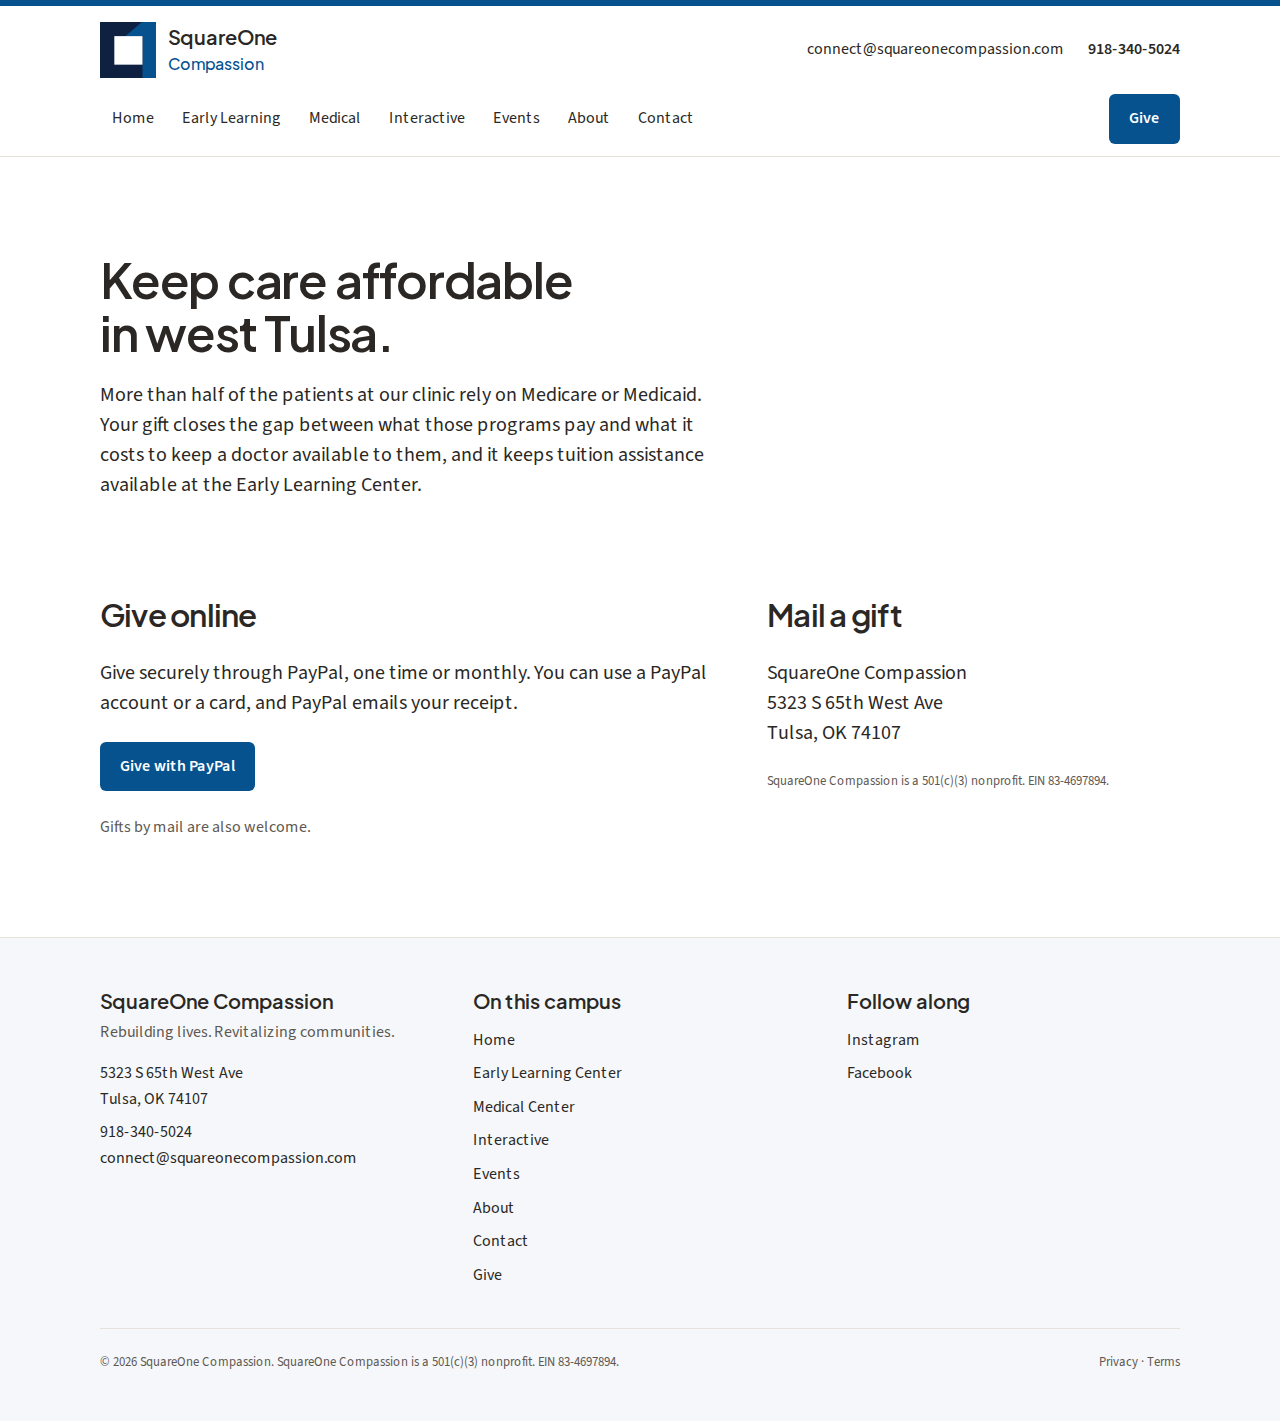
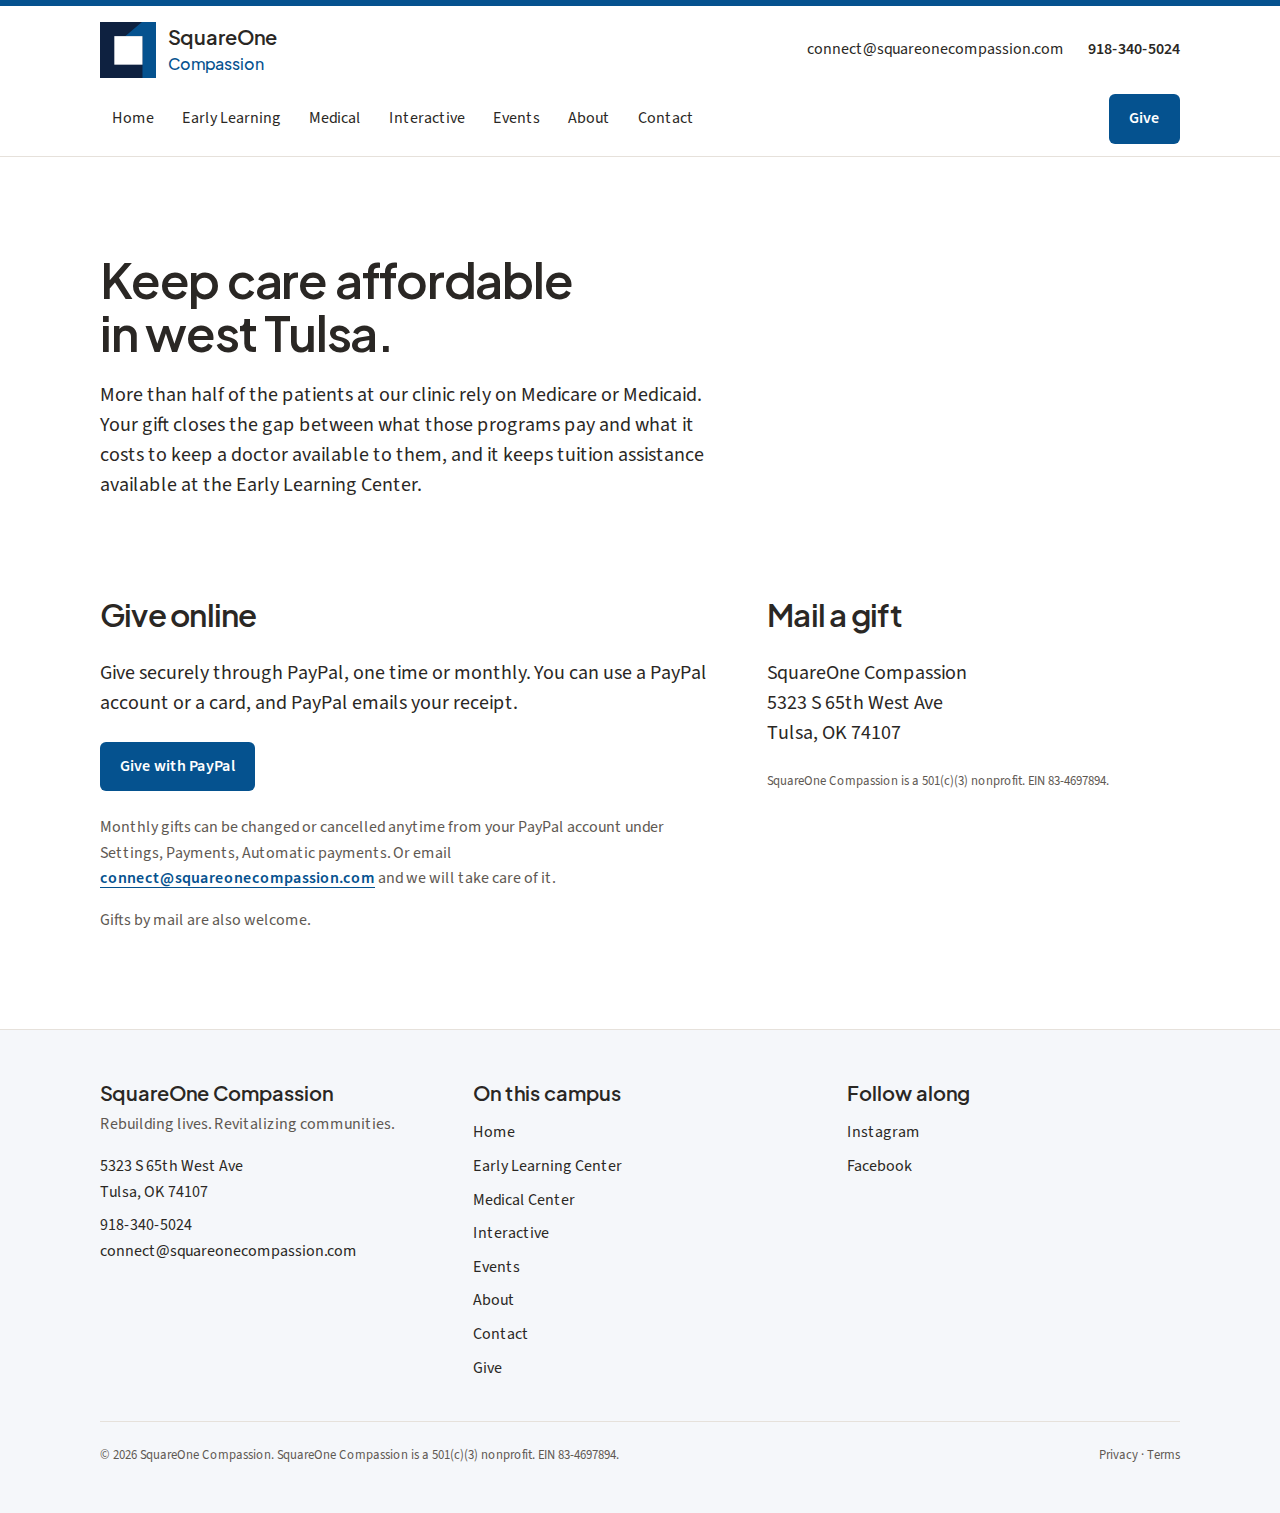
Give page: explain how to change or cancel a monthly PayPal gift
Claude-Session: https://claude.ai/code/session_01Dy1NBE1CDjARVuM4emY1ru

diff --git a/app/give/page.tsx b/app/give/page.tsx
@@ -30,6 +30,13 @@ export default function GivePage() {
                       Give with PayPal
                     </a>
                   </p>
+                  <p className="mt-3 text-muted">
+                    Monthly gifts can be changed or cancelled anytime from your PayPal account under Settings, Payments, Automatic payments. Or email{' '}
+                    <a href={`mailto:${ORG.email}`} className="link">
+                      {ORG.email}
+                    </a>{' '}
+                    and we will take care of it.
+                  </p>
                 </>
               ) : (
                 <div className="max-w-prose">
@@ -39,7 +46,14 @@ export default function GivePage() {
                       Give with PayPal
                     </a>
                   </p>
-                  <p className="mt-6 text-muted">Gifts by mail are also welcome.</p>
+                  <p className="mt-6 text-muted">
+                    Monthly gifts can be changed or cancelled anytime from your PayPal account under Settings, Payments, Automatic payments. Or email{' '}
+                    <a href={`mailto:${ORG.email}`} className="link">
+                      {ORG.email}
+                    </a>{' '}
+                    and we will take care of it.
+                  </p>
+                  <p className="mt-4 text-muted">Gifts by mail are also welcome.</p>
                 </div>
               )}
             </div>

diff --git a/content/COPY.md b/content/COPY.md
@@ -362,7 +362,11 @@ Tulsa, OK 74107
 
 **Thank-you page:** Thank you. Your gift is already at work on our campus. A receipt is on its way to your inbox.
 
-**PayPal (live now):** Give securely through PayPal, one time or monthly. You can use a PayPal account or a card, and PayPal emails your receipt. Button: Give with PayPal → https://www.paypal.com/donate/?hosted_button_id=9S8TBZ2Q3A8VU (Donate button; donors pick one-time or monthly on PayPal). Gifts by mail are also welcome.
+**PayPal (live now):** Give securely through PayPal, one time or monthly. You can use a PayPal account or a card, and PayPal emails your receipt. Button: Give with PayPal → https://www.paypal.com/donate/?hosted_button_id=9S8TBZ2Q3A8VU (Donate button; donors pick one-time or monthly on PayPal).
+
+**Cancellation note (under the PayPal button):** Monthly gifts can be changed or cancelled anytime from your PayPal account under Settings, Payments, Automatic payments. Or email connect@squareonecompassion.com and we will take care of it.
+
+Gifts by mail are also welcome.
 
 When Stripe is configured, the Stripe form shows first and PayPal appears beneath it as "Prefer PayPal? Give with PayPal."
 
